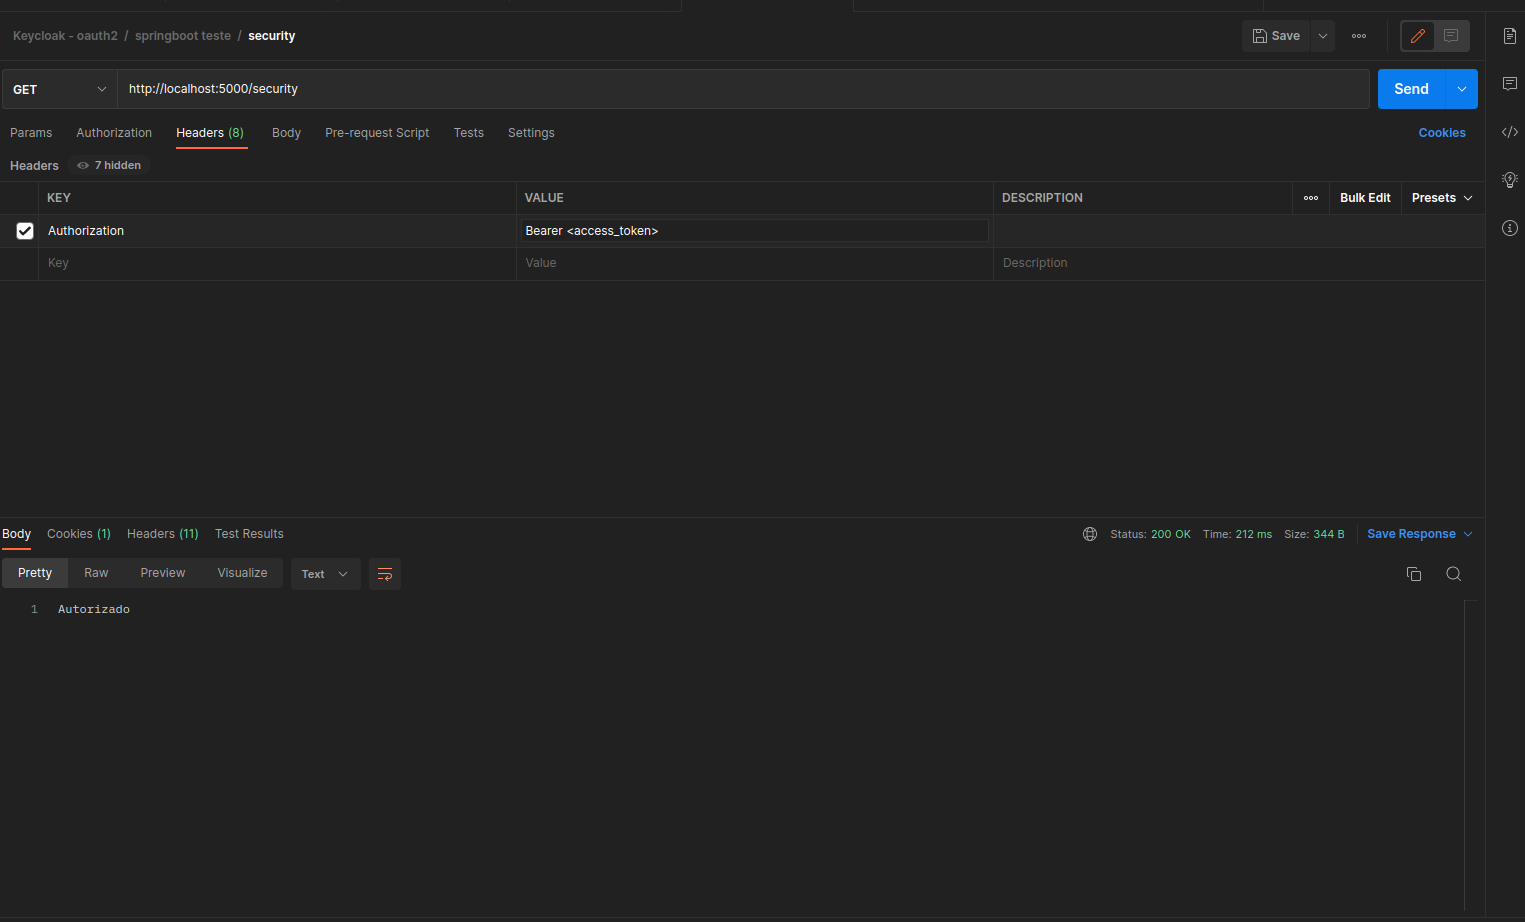
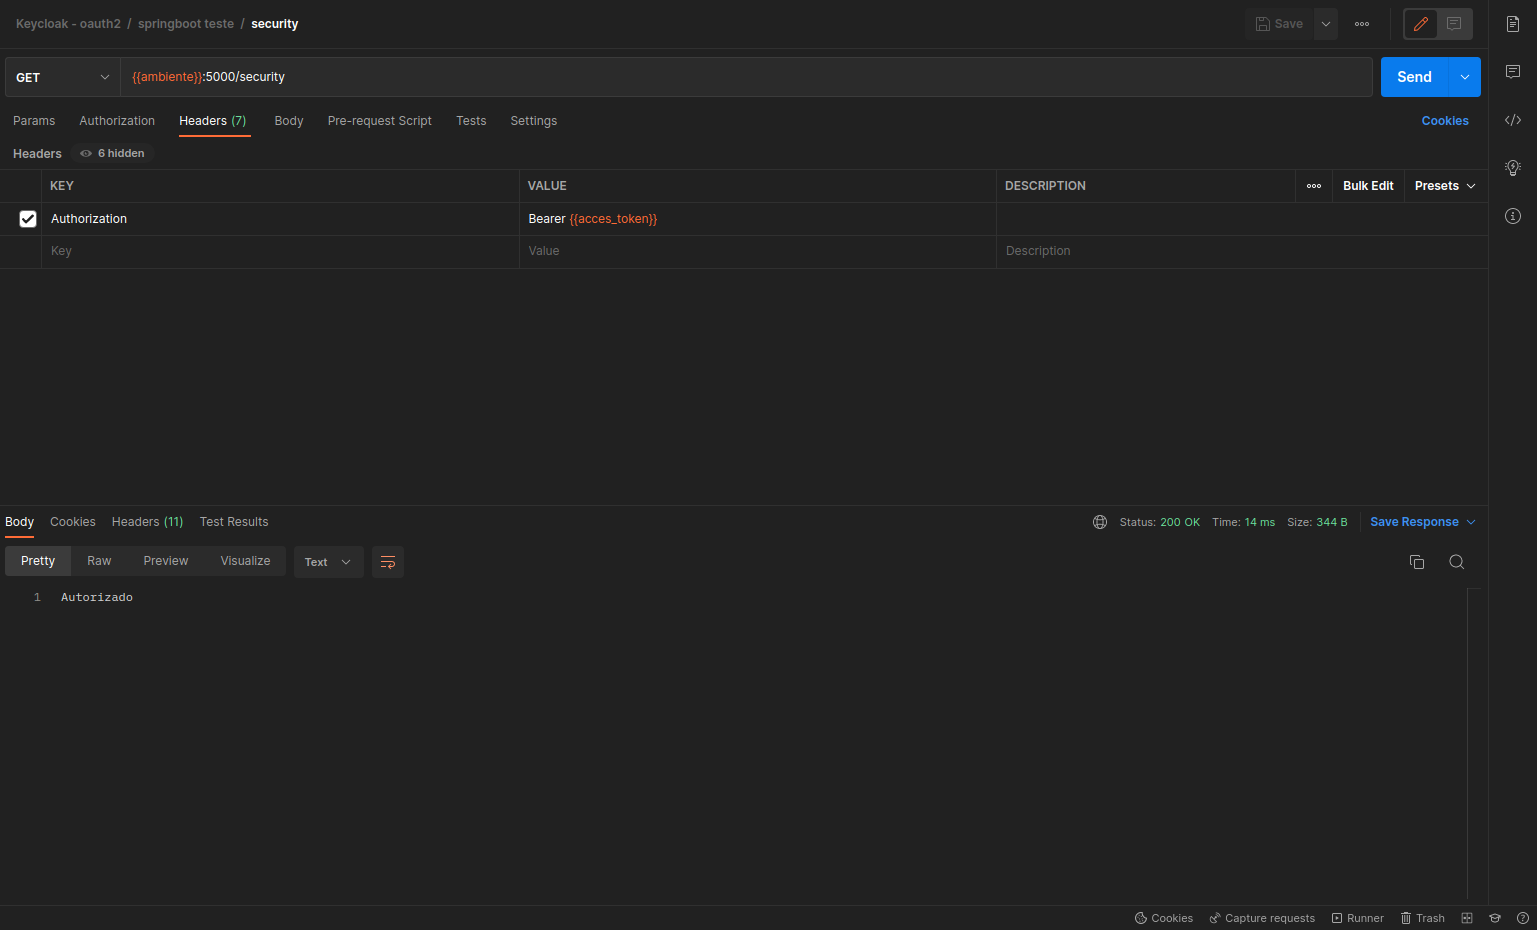
implementação autenticação utilizando User Credential com Roles: - separando implementação utilizando Spring Profile - adicionando imagens README.md

diff --git a/aplicação-java/spring-com-keycloak-exemplo/src/main/java/com/lucassilvs/springcomkeycloakexemplo/controller/JwtController.java b/aplicação-java/spring-com-keycloak-exemplo/src/main/java/com/lucassilvs/springcomkeycloakexemplo/controller/JwtController.java
@@ -1,5 +1,6 @@
 package com.lucassilvs.springcomkeycloakexemplo.controller;
 
+import org.springframework.context.annotation.Profile;
 import org.springframework.http.ResponseEntity;
 import org.springframework.security.access.prepost.PreAuthorize;
 import org.springframework.web.bind.annotation.GetMapping;
@@ -7,9 +8,10 @@ import org.springframework.web.bind.annotation.RequestMapping;
 import org.springframework.web.bind.annotation.RestController;
 
 
+@Profile("jwt")
 @RequestMapping("/security")
 @RestController
-public class PortalController {
+public class JwtController {
 
     @GetMapping
     public ResponseEntity<String> security(){

diff --git a/aplicação-java/spring-com-keycloak-exemplo/src/main/java/com/lucassilvs/springcomkeycloakexemplo/controller/ClientCredentialController.java b/aplicação-java/spring-com-keycloak-exemplo/src/main/java/com/lucassilvs/springcomkeycloakexemplo/controller/ClientCredentialController.java
@@ -1,0 +1,19 @@
+package com.lucassilvs.springcomkeycloakexemplo.controller;
+
+import org.springframework.context.annotation.Profile;
+import org.springframework.http.ResponseEntity;
+import org.springframework.web.bind.annotation.GetMapping;
+import org.springframework.web.bind.annotation.RequestMapping;
+import org.springframework.web.bind.annotation.RestController;
+
+
+@Profile("clientCredential")
+@RequestMapping("/security")
+@RestController
+public class ClientCredentialController {
+
+    @GetMapping
+    public ResponseEntity<String> security(){
+        return ResponseEntity.ok("Autorizado");
+    }
+}
